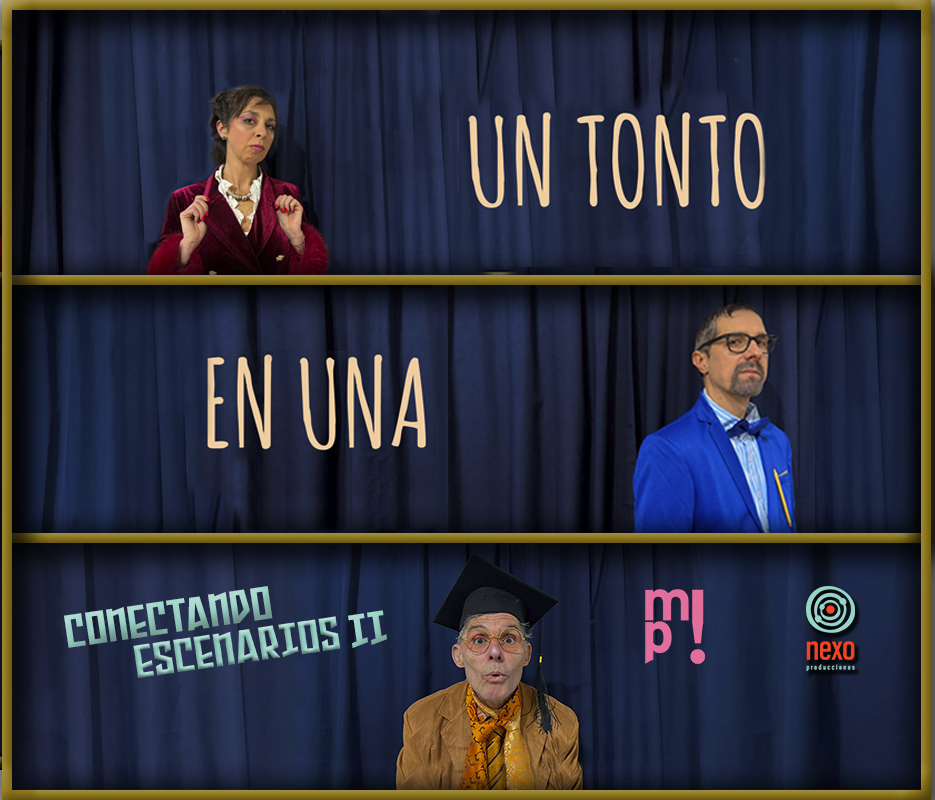
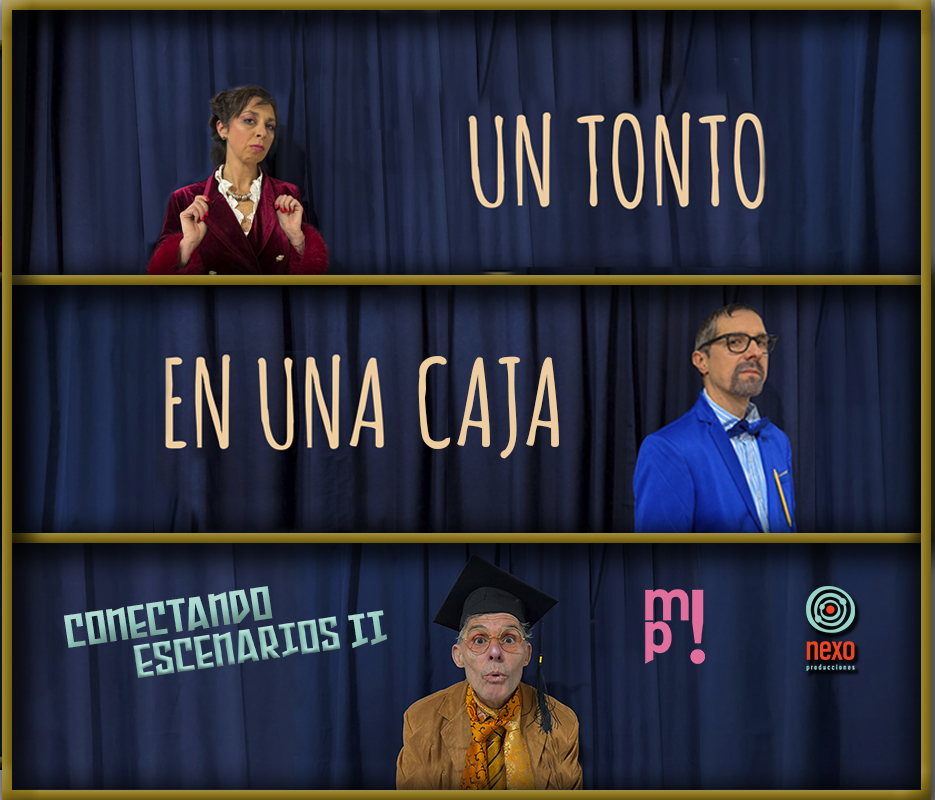
Cambio de imagen y agregado de leyenda en selector de entradas.

Changed region(s): [[0.1551, 0.375, 0.6203, 0.6562]]

diff --git a/backend/frontend/pages/checkout.html b/backend/frontend/pages/checkout.html
@@ -119,8 +119,15 @@
       <!-- ENTRADA -->
       <select
         id="tipoEntrada"
-        class="w-full mb-4 bg-black/40 p-4 rounded-xl"
+        class="w-full bg-black/40 p-4 rounded-xl"
       ></select>
+
+      <p
+        id="tipoEntradaHelp"
+        class="hidden mt-2 mb-4 text-sm text-gray-400"
+      >
+        Si hay más de un tipo de entrada, elegí la opción que prefieras presionando en la flecha del selector.
+      </p>
 
       <!-- CUPON -->
       <input
@@ -459,7 +466,14 @@ function renderEntradas() {
   const select =
     document.getElementById("tipoEntrada");
 
+  const help =
+    document.getElementById("tipoEntradaHelp");
+
   select.innerHTML = "";
+
+  if (help) {
+    help.classList.toggle("hidden", evento.entradas.length <= 1);
+  }
 
   evento.entradas.forEach(e => {
 
